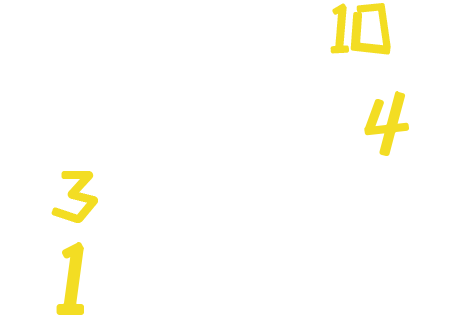
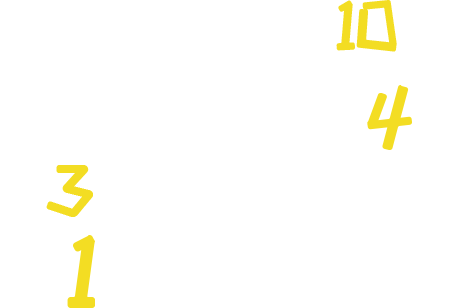
image changes

diff --git a/university1/index.html b/university1/index.html
@@ -243,7 +243,7 @@ body {
 
 .page6-text1 {
 	width: 275px;
-	height: 217px;
+	height: 227px;
 	background: url(assets/images/page6-text1.png) no-repeat;
 	background-size: contain;
 	position: absolute;
@@ -258,7 +258,8 @@ body {
 	background: url(assets/images/page6-text2.png) no-repeat;
 	background-size: contain;
 	position: absolute;
-	left: 26px;
+	top: 8px;
+	left: 50px;
 	-webkit-animation: shine 0.8s infinite ease 0.5s;
 	animation: shine 0.8s infinite ease 0.5s;
 }
